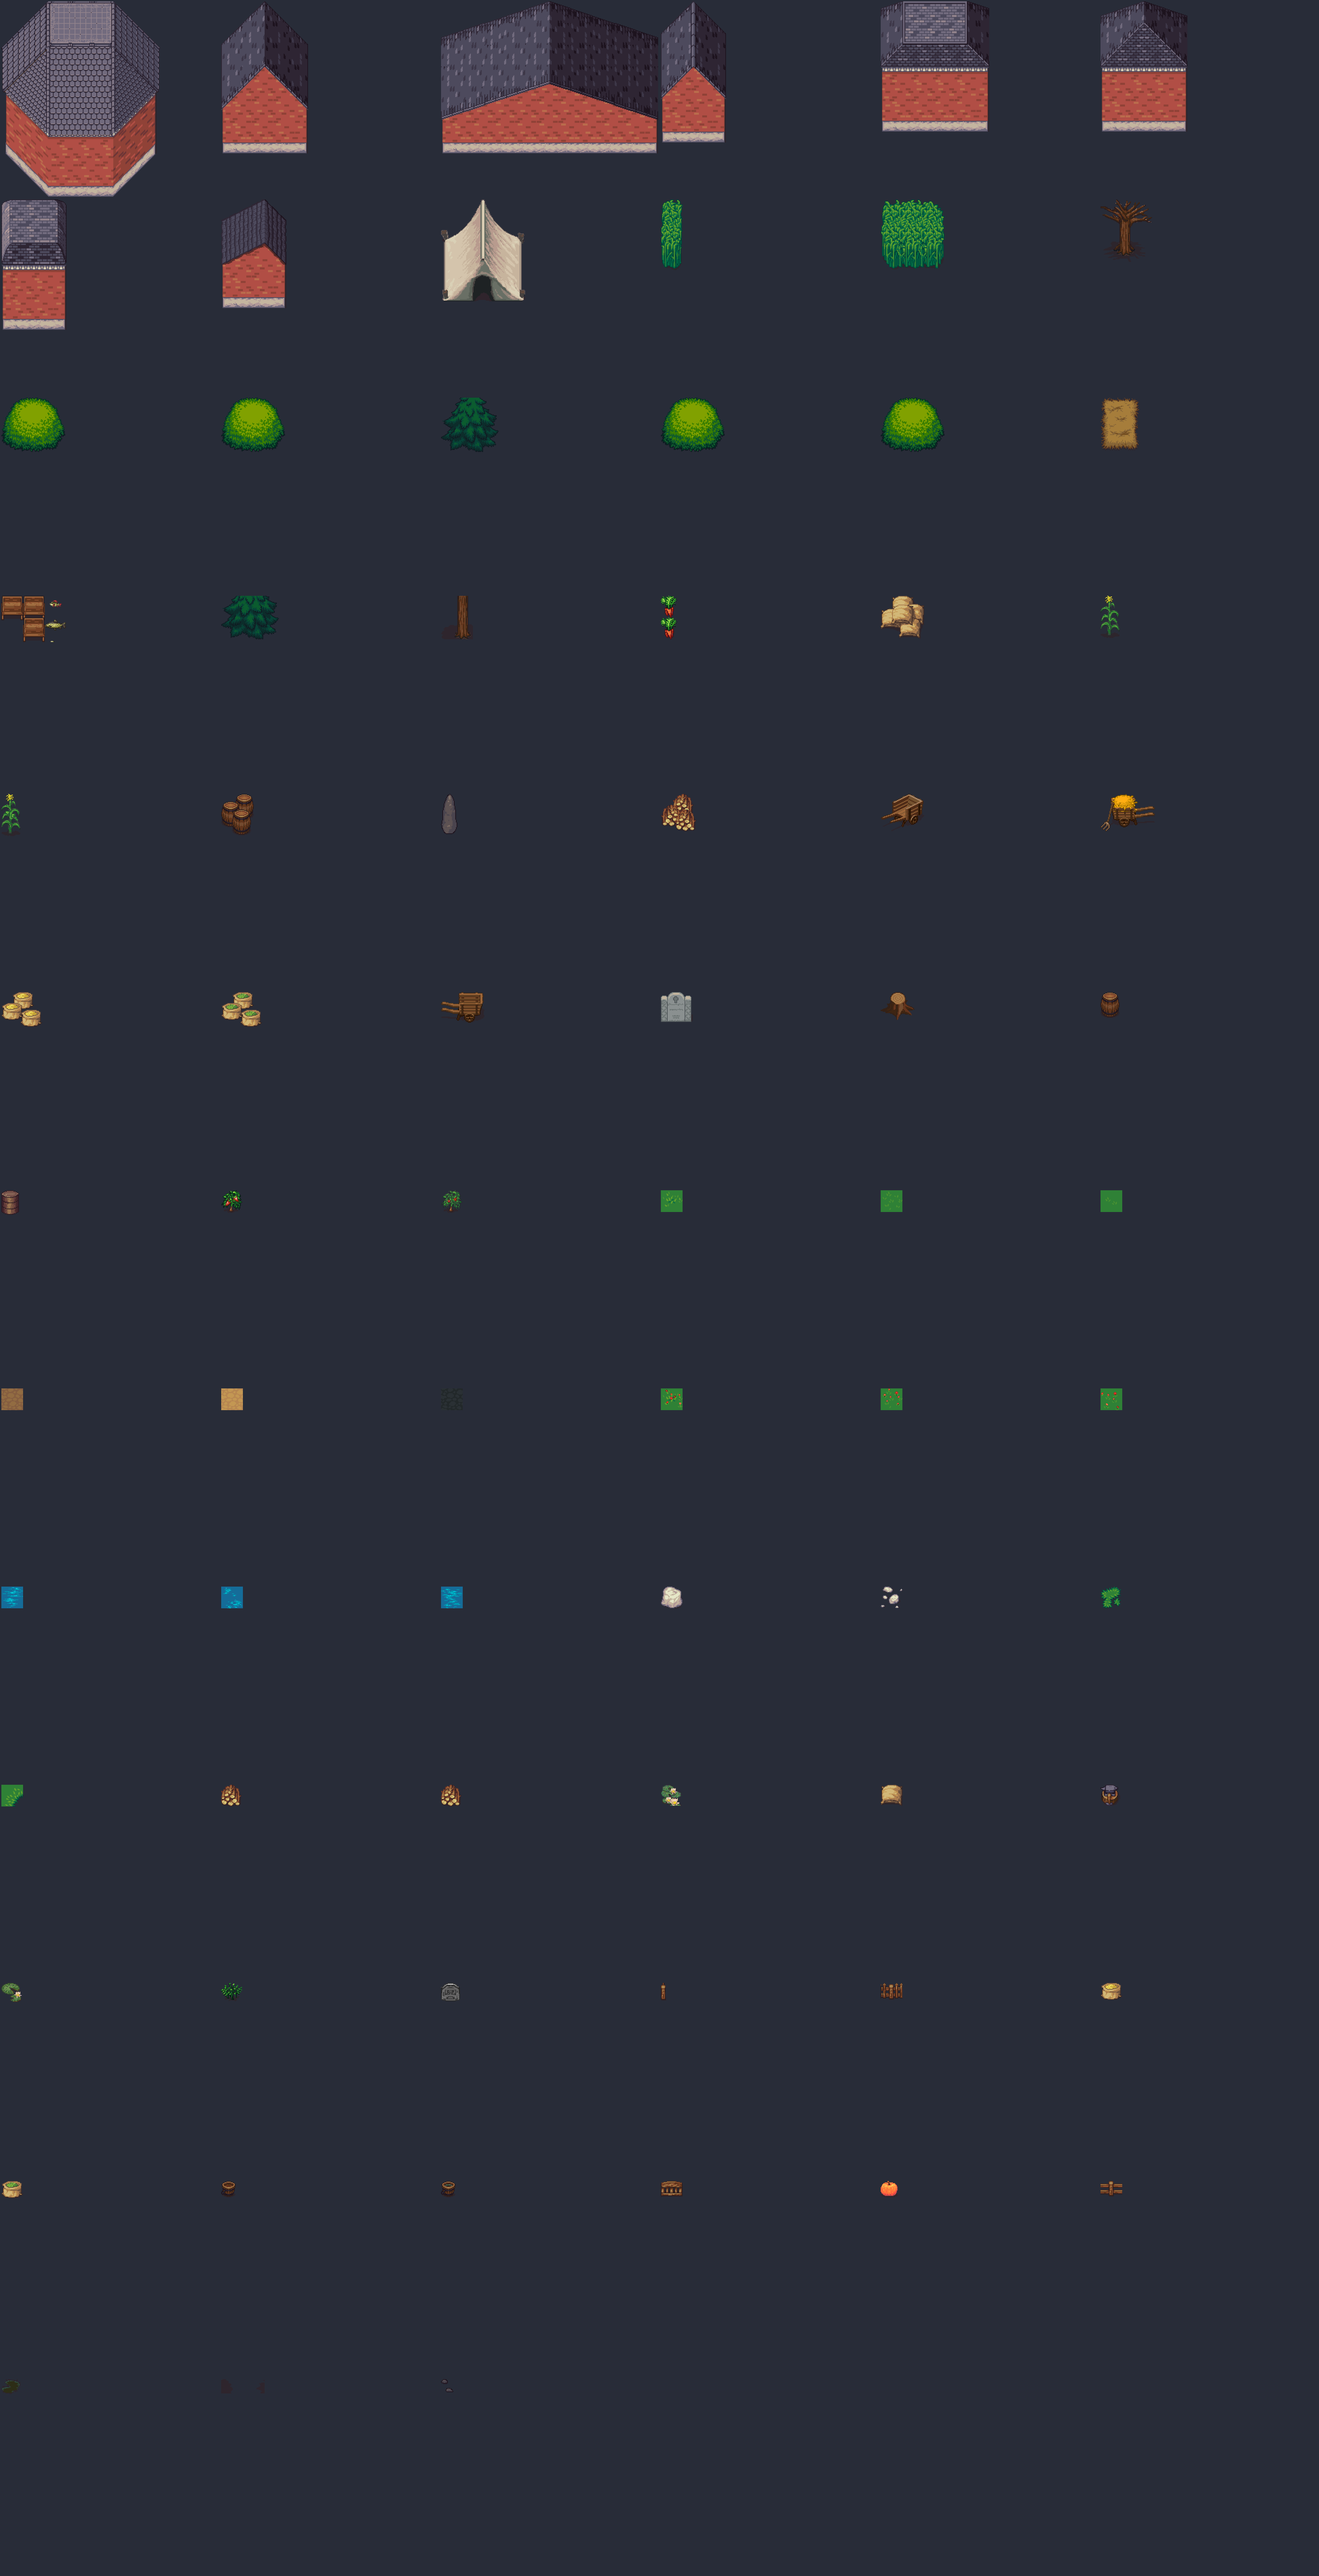
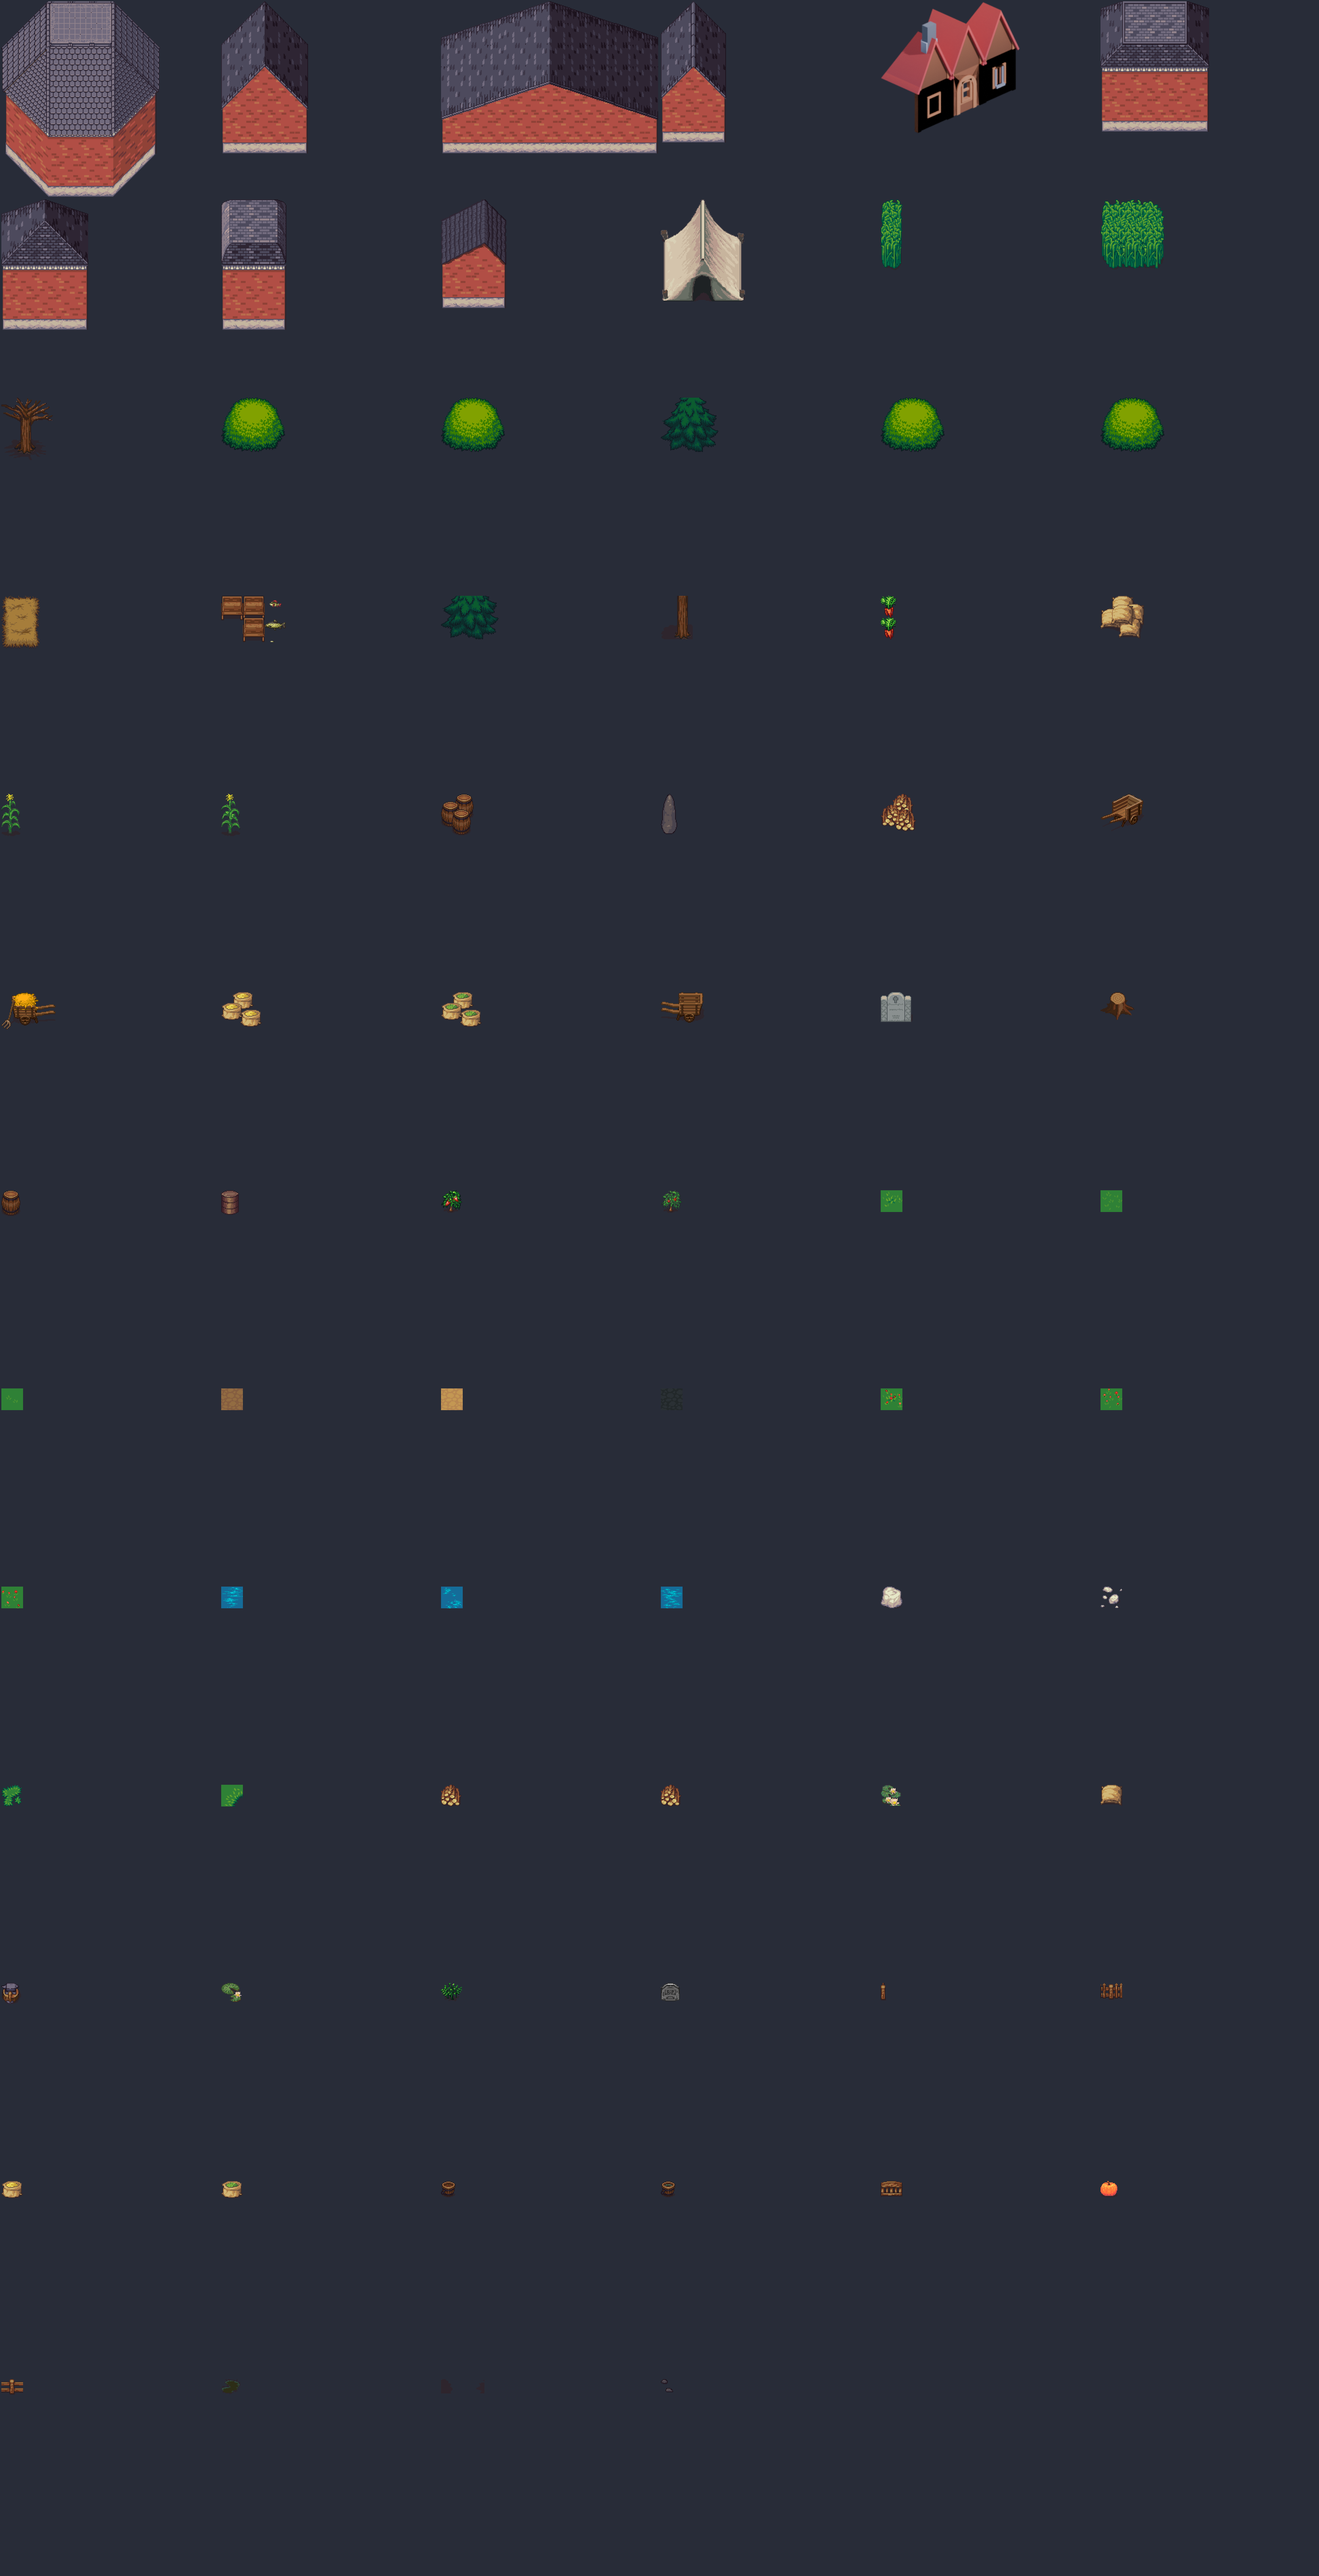
A house that was photographed instead of drawn
One of the twenty-seven houses in the slice is not cut from a sheet.  It is
built out of Kenney's Fantasy Town Kit — 167 CC0 models on a 1x1x1 grid — and
photographed in headless Blender at the camera this game projects with.  It
stands among the flat ones on purpose, because the question was whether a
rendered building sits on quarter-view ground better than a drawn one, and
standing them side by side is the only way to answer it.  It does, and it is
not close: the drawn house is a front elevation standing upright on a diamond,
and the rendered one has two faces and a roof that recedes.

The camera is not a style choice and is not typed in.  `src/main.ts` puts
`x - y` on the horizontal and `(x + y)` halved on the vertical; that is a 2:1
diamond, and a 2:1 diamond is an orthographic camera at an elevation of
`atan(0.5)` looking down the 45 degree diagonal.  The scale is derived too — a
cell is two yards, a yard is `PPY` pixels, and an orthographic camera's
pixels-per-unit is `resolution / ortho_scale` — which is why the sprite came
out 205 by 195 beside a drawn house's 160 by 192 without anything being nudged.

Three things had to be looked at rather than reasoned about.  The roof pieces
were assembled wrong twice before every one of them was rendered alone onto a
contact sheet, which is when `roof-high-gable` turned out to be a whole A-frame
over one cell and not half of one.  Which way its ridge runs was settled by
[…]

diff --git a/src/main.ts b/src/main.ts
@@ -249,7 +249,15 @@ async function main() {
     grave: { pieces: ['grave', 'grave2'], solid: 0.35 },
     // Buildings.  The client says where one stands and what sort it is; which
     // of ours gets drawn there is decided here, the same as a tree.
-    house: { pieces: ['house_a', 'house_b', 'house_c', 'house_d', 'house_e', 'house_f'], solid: 'building' },
+    // `kit_house` is not cut from a sheet: it is built out of a CC0 3D kit and
+    // photographed at this game's own camera by `pipeline/render_kit.py`.  It
+    // stands among the flat ones on purpose — the whole question is whether a
+    // rendered building sits on this ground better than a drawn one does.
+    house: {
+      pieces: ['house_a', 'house_b', 'kit_house', 'house_c', 'house_d',
+        'kit_house', 'house_e', 'house_f'],
+      solid: 'building',
+    },
     hall: { pieces: ['hall'], solid: 'building' },
     tower: { pieces: ['tower'], solid: 'building' },
     tent: { pieces: ['tent'], solid: 'building' },

diff --git a/pipeline/render_kit.py b/pipeline/render_kit.py
@@ -1,0 +1,140 @@
+#!/usr/bin/env python3
+"""Build things out of Kenney's Fantasy Town Kit and render them at the
+projection the game actually draws in.
+
+The kit is 167 CC0 models on a 1x1x1 grid — walls, roofs, roads, fences,
+fountains, stalls, trees, a windmill — and a wall piece sits on the `+x` edge
+of its own cell, so a quarter turn about z is the whole of what picks which
+face of a building it is.  That regularity is why a house can be written down
+as a list of (piece, cell, turn) rather than modelled.
+
+**The camera is not a style choice.**  `src/main.ts` projects with `x - y` on
+the horizontal and `(x + y)` halved on the vertical; that is a 2:1 diamond, and
+a 2:1 diamond is an orthographic camera at an elevation of `atan(0.5)` looking
+along the 45 degree diagonal.  Any other elevation is a different game's
+isometric and the sprite will not sit on our ground.
+
+The scale is not a choice either.  One cell is two yards, a yard is `PPY`
+pixels, and an orthographic camera's pixels-per-unit is `resolution /
+ortho_scale` — so the number below is derived from those three rather than
+nudged until it looked right.
+
+  blender --background --python pipeline/render_kit.py -- <kit dir> <out dir>
+
+Renders with Cycles on the CPU, which is what this machine has: about four
+seconds for a house at 512 pixels, and these are baked once.
+"""
+import math
+import os
+import sys
+
+import bpy
+
+PPY = 24            # pixels to the yard at zoom 1, the same constant main.ts uses
+YARDS_PER_CELL = 2
+TILT = math.atan(0.5)
+
+# (piece, cell x, cell y, cell z, quarter turns in degrees).
+#
+# `roof-high-gable` is a whole A-frame over one cell and `roof-high-gable-end`
+# is the same with the triangle filled in, so a row of them capped at both ends
+# is a roof.  Which way the ridge runs was settled by rendering both and
+# looking, not by reading the file name.
+BUILDS = {
+    'kit_house': [
+        ('wall-wood-window-shutters', 0, -1, 0, 180),
+        ('wall-wood-door', 0, 0, 0, 180),
+        ('wall-wood-window-shutters', 0, 1, 0, 180),
+        ('wall-wood', 0, -1, 0, 0),
+        ('wall-wood-window-glass', 0, 0, 0, 0),
+        ('wall-wood', 0, 1, 0, 0),
+        ('wall-wood-window-small', 0, 1, 0, 90),
+        ('wall-wood', 0, -1, 0, -90),
+        ('roof-high-gable-end', 0, -1, 1, 180),
+        ('roof-high-gable', 0, 0, 1, 0),
+        ('roof-high-gable-end', 0, 1, 1, 0),
+        ('chimney', 0, -1, 1.4, 0),
+    ],
+}
+
+
+def build(kit, pieces):
+    cache = {}
+    for name, x, y, z, turn in pieces:
+        if name not in cache:
+            before = set(bpy.data.objects)
+            bpy.ops.import_scene.gltf(filepath=os.path.join(kit, name + '.glb'))
+            made = [o for o in bpy.data.objects if o not in before]
+            for o in made:
+                o.hide_render = True
+            cache[name] = made
+        for src in cache[name]:
+            o = src.copy()
+            if src.data:
+                o.data = src.data
+            o.hide_render = False
+            bpy.context.scene.collection.objects.link(o)
+            o.location = (x, y, z)
+            o.rotation_euler = (0, 0, math.radians(turn))
+
+
+def light():
+    """Key light on the camera's own side of the building.
+
+    Put anywhere else it lights the two faces the camera cannot see, and the
+    first render of this house came out as a black silhouette with lit window
+    frames.  The sky term is there so a shadowed face is dark rather than
+    empty — Cycles with a sun and no world is genuinely black in shadow.
+    """
+    sc = bpy.context.scene
+    for energy, az, el in ((4.0, 100, 48), (1.1, 280, 66)):
+        li = bpy.data.lights.new('sun', 'SUN')
+        li.energy = energy
+        ob = bpy.data.objects.new('sun', li)
+        sc.collection.objects.link(ob)
+        ob.rotation_euler = (math.radians(el), 0, math.radians(az))
+    w = bpy.data.worlds.new('sky')
+    sc.world = w
+    w.use_nodes = True
+    bg = w.node_tree.nodes['Background']
+    bg.inputs['Color'].default_value = (0.42, 0.52, 0.62, 1)
+    bg.inputs['Strength'].default_value = 0.55
+
+
+def render(out, res):
+    sc = bpy.context.scene
+    # A world unit along x lands `cos(45) * pixels-per-unit` across the glass,
+    # and we want a cell to land `YARDS_PER_CELL * PPY`.
+    ppu = (YARDS_PER_CELL * PPY) / math.cos(math.radians(45))
+    d = 40
+    bpy.ops.object.camera_add(
+        location=(d, -d, d * math.tan(TILT) * math.sqrt(2)))
+    cam = bpy.context.active_object
+    cam.data.type = 'ORTHO'
+    cam.data.ortho_scale = res / ppu
+    cam.rotation_euler = (math.pi / 2 - TILT, 0, math.radians(45))
+    sc.camera = cam
+    sc.render.resolution_x = sc.render.resolution_y = res
+    sc.render.film_transparent = True
+    sc.render.image_settings.color_mode = 'RGBA'
+    # Cycles because this machine's EEVEE has no EGL surface to draw on in
+    # `--background`; it is a bake, so the CPU is fine.
+    sc.render.engine = 'CYCLES'
+    sc.cycles.samples = 96
+    sc.render.filepath = out
+    bpy.ops.render.render(write_still=True)
+
+
+def main(kit, out):
+    os.makedirs(out, exist_ok=True)
+    for name, pieces in BUILDS.items():
+        bpy.ops.wm.read_factory_settings(use_empty=True)
+        build(kit, pieces)
+        light()
+        render(os.path.join(out, name + '.png'), 512)
+        print(f'rendered {name}')
+
+
+if __name__ == '__main__':
+    argv = sys.argv[sys.argv.index('--') + 1:]
+    main(os.path.expanduser(argv[0]), os.path.expanduser(argv[1]))

diff --git a/pipeline/bake_tiles.py b/pipeline/bake_tiles.py
@@ -62,6 +62,15 @@ AUTHORS = {
         'licences': 'CC-BY-SA 3.0 / GPL 3.0',
         'url': 'https://opengameart.org/content/tiled-terrains',
     },
+    # Not cut from a sheet: built out of a CC0 model kit and rendered at our own
+    # camera by `render_kit.py`.  CC0 asks for no attribution at all, which is
+    # exactly why it is written down here — a credit nobody is owed is still
+    # the honest record of where a picture came from.
+    'kenney': {
+        'name': 'Kenney (Fantasy Town Kit), rendered by pipeline/render_kit.py',
+        'licences': 'CC0 1.0',
+        'url': 'https://kenney.nl/assets/fantasy-town-kit',
+    },
 }
 
 # Where each sheet lives.  The sets are kept beside each other under ~/src the
@@ -212,13 +221,24 @@ OBJECTS = [
 ]
 
 
+# (id, file, author).  Pieces that are rendered rather than cut — the output of
+# `render_kit.py`, which builds them out of a 3D kit and photographs them at the
+# projection `src/main.ts` draws in.  They come in already trimmed and already
+# at the right pixels-per-yard, so this table is only where they join the atlas.
+RENDERED = [
+    ('kit_house', 'kit_house.png', 'kenney'),
+]
+# Where `render_kit.py` was told to put them.
+RENDERS = 'public/art/kit'
+
+
 def trim(im):
     box = im.getbbox()
     return im.crop(box) if box else im
 
 
 def main(out):
-    for _id, sheet, *_rest, by in GROUND + OBJECTS:
+    for _id, _sheet, *_rest, by in GROUND + OBJECTS + RENDERED:
         if by not in AUTHORS:
             sys.exit(f'{_id} names no author ({by})')
 
@@ -239,6 +259,12 @@ def main(out):
     for pid, x, y, w, h in HOUSES:
         im = trim(sheets['roofs-preview.png'].crop((x, y, x + w, y + h)))
         cut.append({'id': pid, 'kind': 'object', 'by': 'roofs', 'im': im})
+    for pid, name, by in RENDERED:
+        path = os.path.join(RENDERS, name)
+        if not os.path.exists(path):
+            sys.exit(f'missing render {path} — run pipeline/render_kit.py first')
+        cut.append({'id': pid, 'kind': 'object', 'by': by,
+                    'im': trim(Image.open(path).convert('RGBA'))})
 
     # One row per piece height class is not worth it at this count: pack in a
     # simple shelf and write the rectangles out.

diff --git a/CLAUDE.md b/CLAUDE.md
@@ -27,7 +27,9 @@ src/        the scene (`main.ts`, canvas 2D, no simulation yet), what the
 scripts/    checks that need a browser.  `padcheck.mjs` drives the touch
             controls with Chromium's own touch input over CDP; `viewcheck.mjs`
             asserts what the quarter view promises about geometry
-public/art  the baked art (committed).  public/data is not (see below)
+public/art  the baked art (committed), including `kit/` — the renders, which
+            are art this repository made rather than cut.  public/data is not
+            (see below)
 ```
 
 The ICC raid prototype that used to be here is gone. It is not lost: tag
@@ -101,6 +103,16 @@ model paths and keeps only a kind (`tree`, `rock`, `fence`). The wiki page is
 
 **Blizzard's sentences are not used either.** Creature names, quest text,
 gossip. The structure comes from AzerothCore; the words are ours.
+
+**A rendered piece is a third way of getting art, and the camera is not a
+style choice.** `pipeline/render_kit.py` builds things out of a CC0 3D kit and
+photographs them at the exact projection `src/main.ts` draws in — orthographic,
+2:1, elevation `atan(0.5)` down the 45° diagonal — with the pixels-per-yard
+derived from `PPY` rather than nudged. Any other elevation is a different
+game's isometric and the sprite will not sit on this ground. It solves three
+things a drawn sheet cannot: the projection is ours, every asset is lit
+identically, and eight directions of a character is eight rotations rather than
+eight drawings.
 
 **Art carries its author.** The LPC tilesets ship a `MISSING:` section — tiles
 nobody recorded the author of. A CC-BY tile with no author cannot be complied

diff --git a/README.md b/README.md
@@ -66,6 +66,12 @@ quest bodies — is not used either.
 pipeline and then dropping it; the kind words are ours, and the name never
 reaches the browser.
 
+One building is not drawn at all. `pipeline/render_kit.py` assembles it out of
+[Kenney's Fantasy Town Kit](https://kenney.nl/assets/fantasy-town-kit) — 167 CC0
+models on a 1×1×1 grid — and photographs it in headless Blender at the camera
+`src/main.ts` projects with: orthographic, 2:1, elevation `atan(0.5)` down the
+45° diagonal. It stands among the flat ones on purpose.
+
 The art is Liberated Pixel Cup — the tilesets, the character parts and four
 animal packs from OpenGameArt, cut and composited by `pipeline/`. It is
 variously CC-BY-SA 3.0, CC-BY 4.0, GPL 3.0 and OGA-BY 3.0, **and those carry**:

diff --git a/art/LPC-TERRAIN-CREDITS.md b/art/LPC-TERRAIN-CREDITS.md
@@ -16,6 +16,10 @@ recorded cannot be complied with.
   <https://opengameart.org/content/lpc-farming-tilesets-magic-animations-and-ui-elements>  
   `reeds`, `reeds2`, `hay`, `stall`, `carrots`, `sacks`, `corn`, `corn2`, `woodpile`, `baskets`, `baskets2`, `tomatoes`, `sprout`, `firewood`, `firewood2`, `sack`, `anvil`, `sprout2`, `fence_post`, `fence2`, `basket`, `basket2`, `crate`, `pumpkin`, `fence`
 
+- **Kenney (Fantasy Town Kit), rendered by pipeline/render_kit.py** — CC0 1.0  
+  <https://kenney.nl/assets/fantasy-town-kit>  
+  `kit_house`
+
 - **Barbara Rivera / C Phillips** — CC-BY-SA 3.0 / GPL 3.0  
   <https://opengameart.org/content/tiled-terrains>  
   `deadtree`
